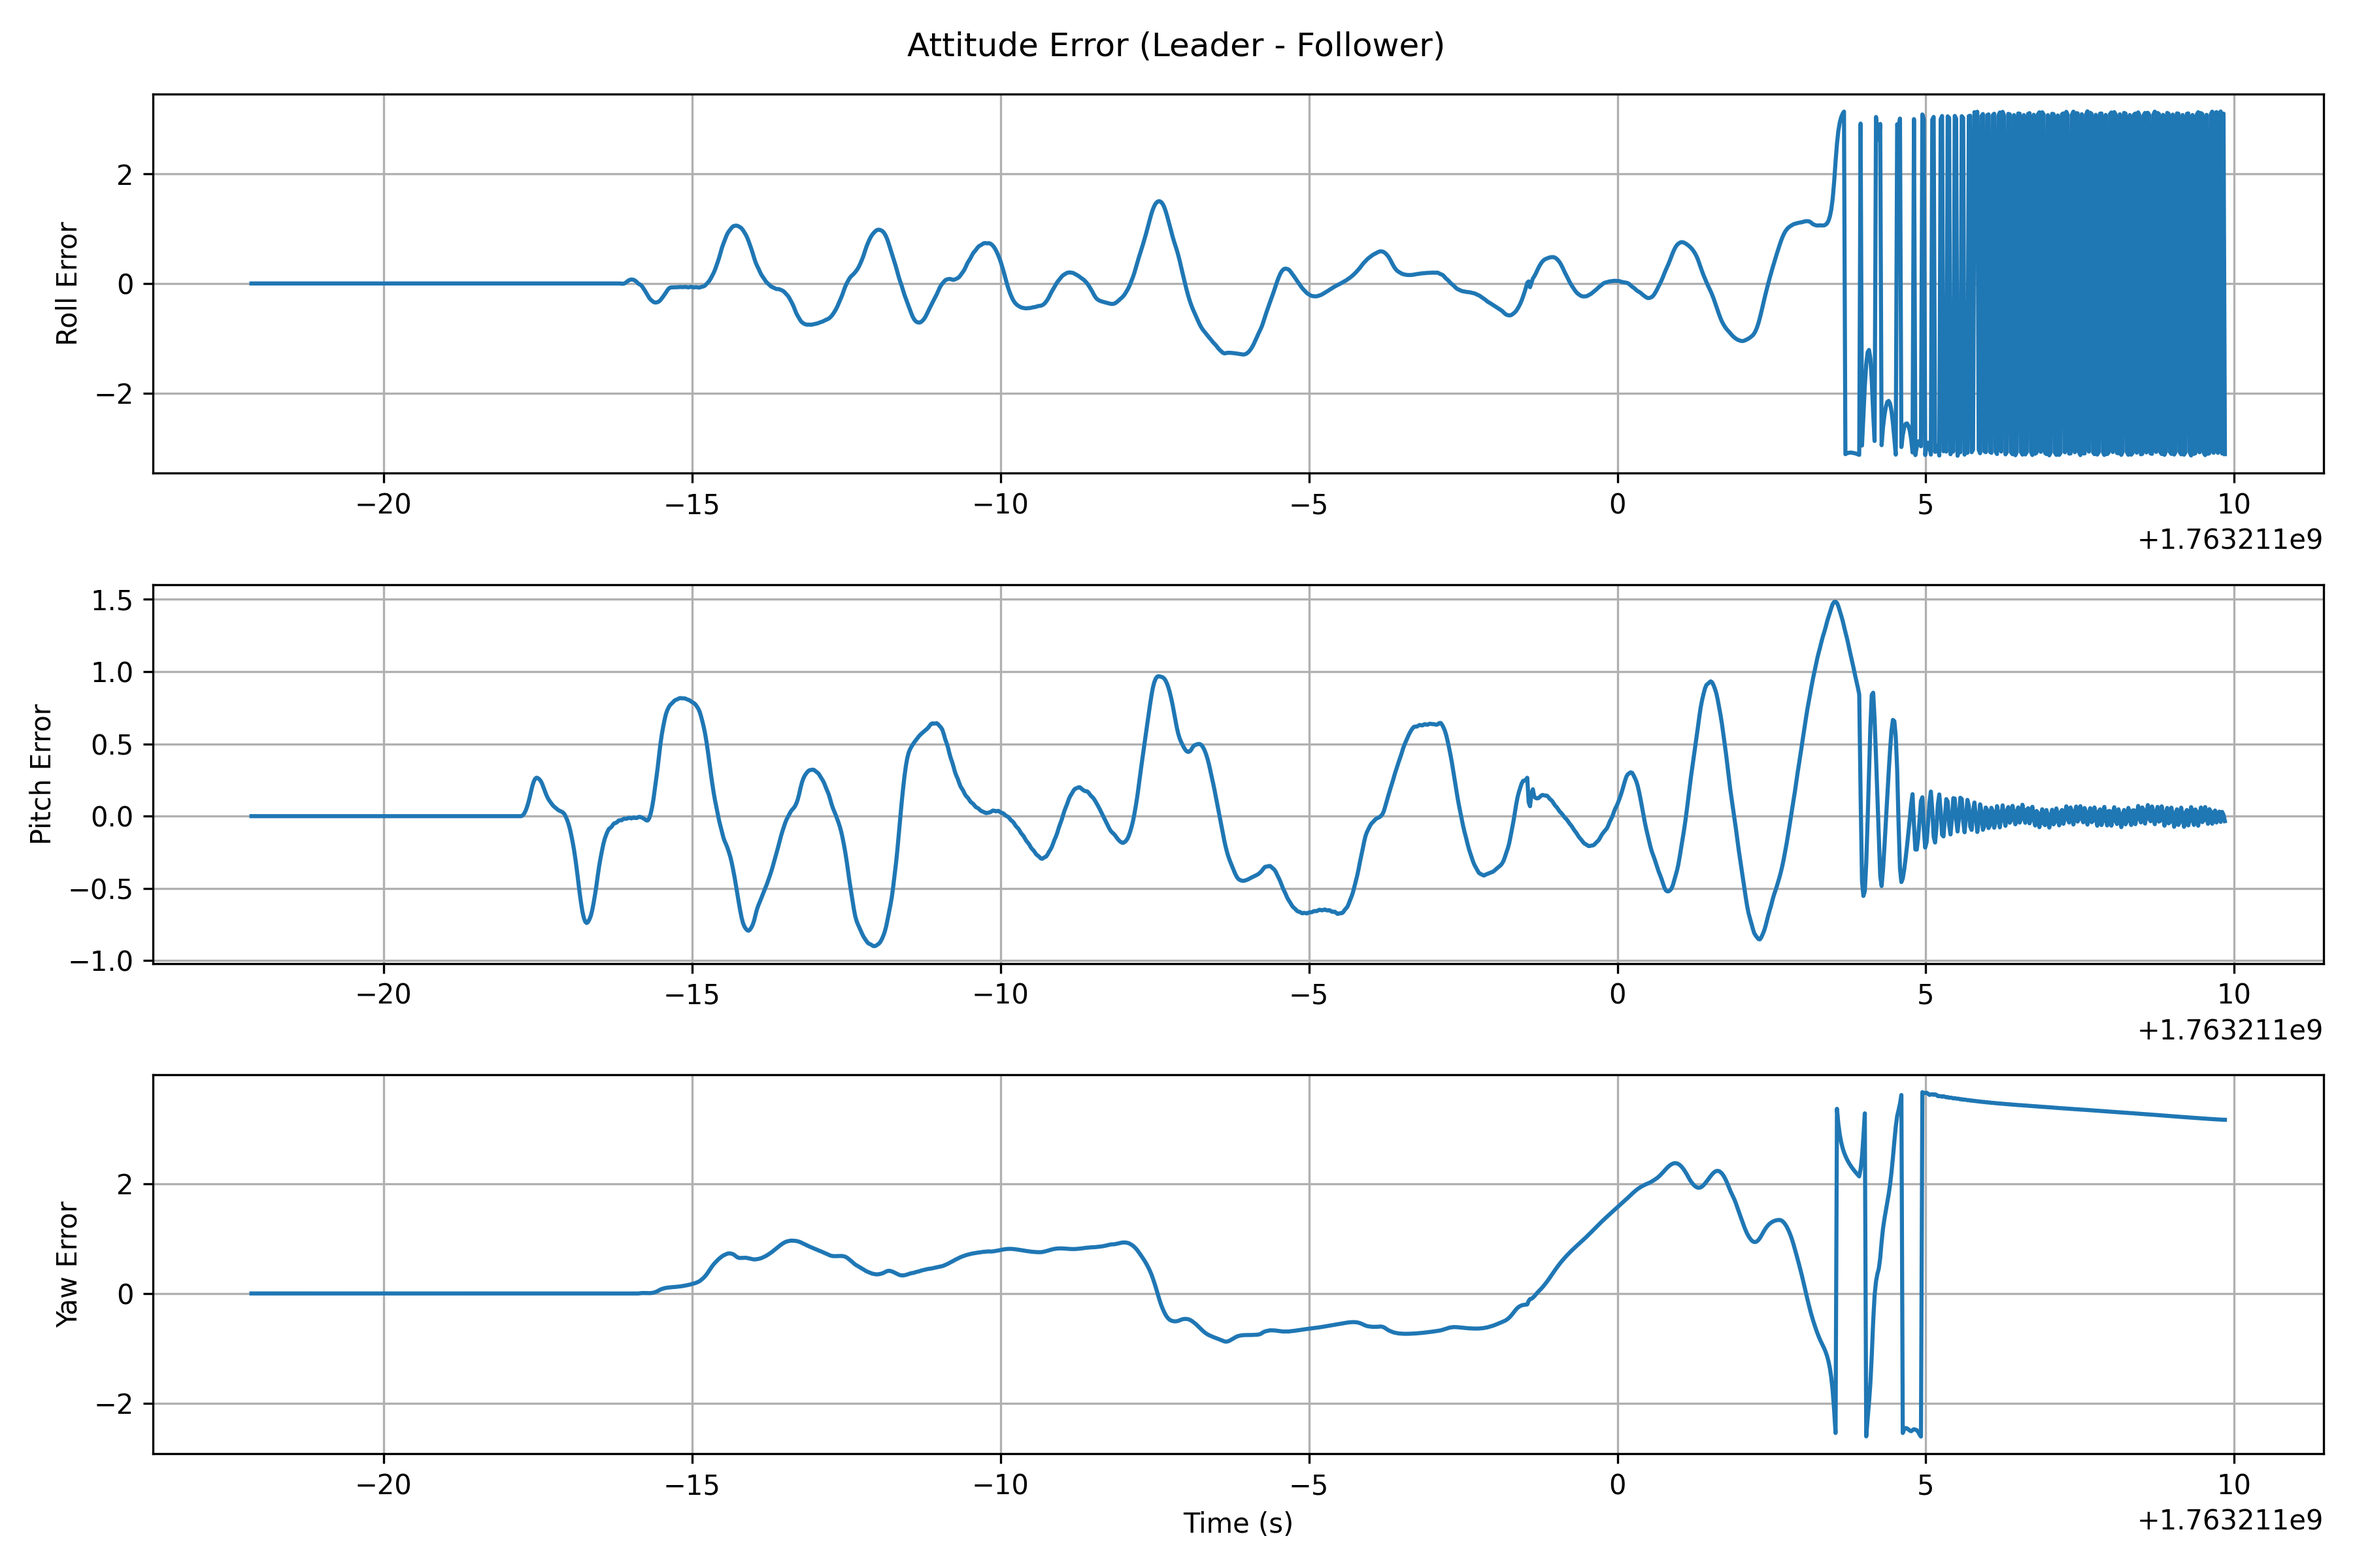
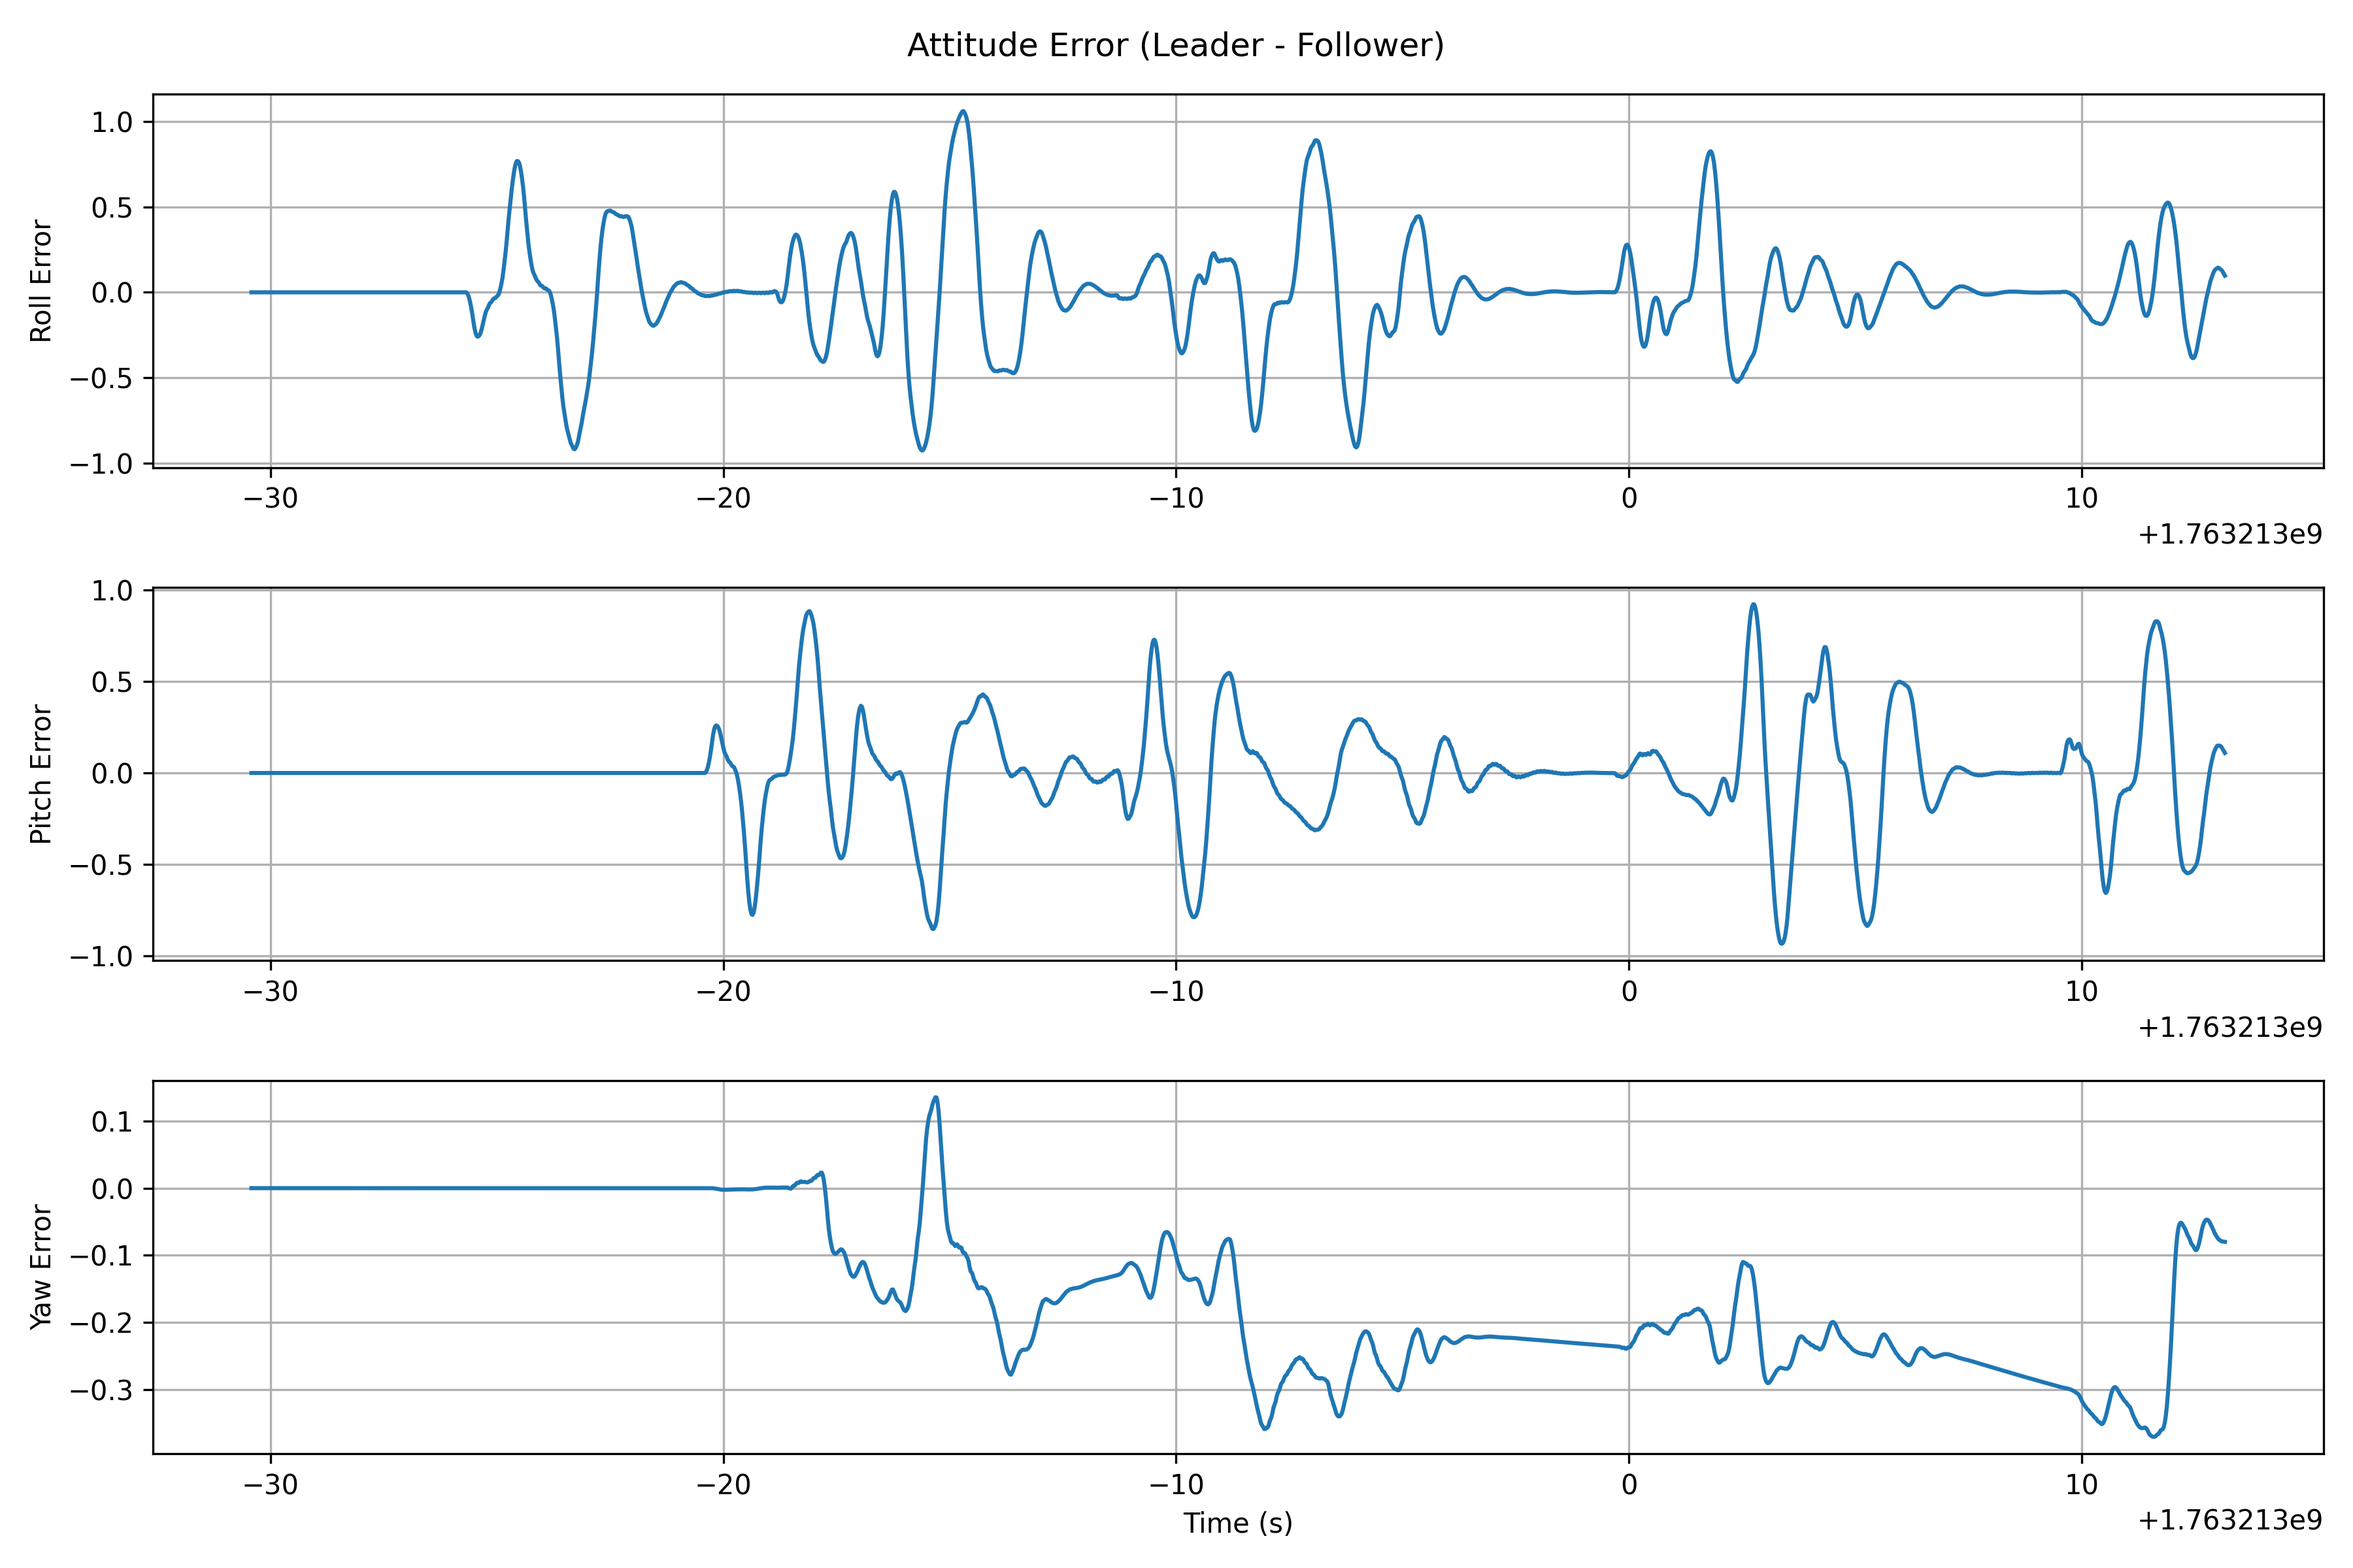
comparison graphs added

diff --git a/project control sys/drone_follower.py b/project control sys/drone_follower.py
@@ -297,6 +297,118 @@ def run_manual_control(drone1, drone2):
         print("\nAll graphs saved successfully inside the 'graphs' folder!")
         p.disconnect()
 
+        # -------------------------------------------------------
+        # 6. COMBINED 2×2 RESEARCH-STYLE FIGURE
+        # -------------------------------------------------------
+
+        fig, axs = plt.subplots(2, 2, figsize=(15, 10))
+
+        # ---------- Subplot 1: Yaw-only or RPY ----------
+        axs[0, 0].plot(time_arr, leader_rpy[:, 2], label="Leader Yaw")
+        axs[0, 0].plot(time_arr, follower_rpy[:, 2], label="Follower Yaw")
+        axs[0, 0].set_title("Yaw Tracking")
+        axs[0, 0].set_xlabel("Time (s)")
+        axs[0, 0].set_ylabel("Yaw (rad)")
+        axs[0, 0].grid()
+        axs[0, 0].legend()
+
+        # ---------- Subplot 2: XYZ Position ----------
+        axs[0, 1].plot(time_arr, leader_pos[:, 0], label="Leader X")
+        axs[0, 1].plot(time_arr, leader_pos[:, 1], label="Leader Y")
+        axs[0, 1].plot(time_arr, leader_pos[:, 2], label="Leader Z")
+        axs[0, 1].plot(time_arr, follower_pos[:, 0], '--', label="Follower X")
+        axs[0, 1].plot(time_arr, follower_pos[:, 1], '--', label="Follower Y")
+        axs[0, 1].plot(time_arr, follower_pos[:, 2], '--', label="Follower Z")
+        axs[0, 1].set_title("Position Tracking (XYZ)")
+        axs[0, 1].set_xlabel("Time (s)")
+        axs[0, 1].set_ylabel("Position (m)")
+        axs[0, 1].grid()
+        axs[0, 1].legend()
+
+        # ---------- Subplot 3: Velocity ----------
+        axs[1, 0].plot(time_arr, leader_vel[:, 0], label="Leader Vx")
+        axs[1, 0].plot(time_arr, leader_vel[:, 1], label="Leader Vy")
+        axs[1, 0].plot(time_arr, leader_vel[:, 2], label="Leader Vz")
+        axs[1, 0].plot(time_arr, follower_vel[:, 0], '--', label="Follower Vx")
+        axs[1, 0].plot(time_arr, follower_vel[:, 1], '--', label="Follower Vy")
+        axs[1, 0].plot(time_arr, follower_vel[:, 2], '--', label="Follower Vz")
+        axs[1, 0].set_title("Velocity Tracking (Vx, Vy, Vz)")
+        axs[1, 0].set_xlabel("Time (s)")
+        axs[1, 0].set_ylabel("Velocity (m/s)")
+        axs[1, 0].grid()
+        axs[1, 0].legend()
+
+        # ---------- Subplot 4: Attitude Error ----------
+        axs[1, 1].plot(time_arr, rpy_err[:, 0], label="Roll Error")
+        axs[1, 1].plot(time_arr, rpy_err[:, 1], label="Pitch Error")
+        axs[1, 1].plot(time_arr, rpy_err[:, 2], label="Yaw Error")
+        axs[1, 1].set_title("Attitude Error (Leader - Follower)")
+        axs[1, 1].set_xlabel("Time (s)")
+        axs[1, 1].set_ylabel("Error (rad)")
+        axs[1, 1].grid()
+        axs[1, 1].legend()
+
+        plt.tight_layout()
+        plt.savefig(f"{save_dir}/combined_2x2_results.png", dpi=300)
+        plt.close()
+
+        print(" - combined_2x2_results.png")
+
+        # -------------------------------------------------------
+        # 7. COMBINED GROUP OF 3 (RPY, XYZ, VELOCITY)
+        # -------------------------------------------------------
+        fig, axs = plt.subplots(3, 1, figsize=(14, 12))
+
+        # ---------- Group 1: RPY Tracking ----------
+        axs[0].plot(time_arr, leader_rpy[:, 0], label="Leader Roll")
+        axs[0].plot(time_arr, leader_rpy[:, 1], label="Leader Pitch")
+        axs[0].plot(time_arr, leader_rpy[:, 2], label="Leader Yaw")
+
+        axs[0].plot(time_arr, follower_rpy[:, 0], '--', label="Follower Roll")
+        axs[0].plot(time_arr, follower_rpy[:, 1], '--', label="Follower Pitch")
+        axs[0].plot(time_arr, follower_rpy[:, 2], '--', label="Follower Yaw")
+
+        axs[0].set_title("RPY Tracking (Roll, Pitch, Yaw)")
+        axs[0].set_xlabel("Time (s)")
+        axs[0].set_ylabel("Angle (rad)")
+        axs[0].grid()
+        axs[0].legend()
+
+        # ---------- Group 2: XYZ Positions ----------
+        axs[1].plot(time_arr, leader_pos[:, 0], label="Leader X")
+        axs[1].plot(time_arr, leader_pos[:, 1], label="Leader Y")
+        axs[1].plot(time_arr, leader_pos[:, 2], label="Leader Z")
+
+        axs[1].plot(time_arr, follower_pos[:, 0], '--', label="Follower X")
+        axs[1].plot(time_arr, follower_pos[:, 1], '--', label="Follower Y")
+        axs[1].plot(time_arr, follower_pos[:, 2], '--', label="Follower Z")
+
+        axs[1].set_title("XYZ Position Tracking")
+        axs[1].set_xlabel("Time (s)")
+        axs[1].set_ylabel("Position (m)")
+        axs[1].grid()
+        axs[1].legend()
+
+        # ---------- Group 3: Velocities ----------
+        axs[2].plot(time_arr, leader_vel[:, 0], label="Leader Vx")
+        axs[2].plot(time_arr, leader_vel[:, 1], label="Leader Vy")
+        axs[2].plot(time_arr, leader_vel[:, 2], label="Leader Vz")
+
+        axs[2].plot(time_arr, follower_vel[:, 0], '--', label="Follower Vx")
+        axs[2].plot(time_arr, follower_vel[:, 1], '--', label="Follower Vy")
+        axs[2].plot(time_arr, follower_vel[:, 2], '--', label="Follower Vz")
+
+        axs[2].set_title("Velocity Tracking (Vx, Vy, Vz)")
+        axs[2].set_xlabel("Time (s)")
+        axs[2].set_ylabel("Velocity (m/s)")
+        axs[2].grid()
+        axs[2].legend()
+
+        plt.tight_layout()
+        plt.savefig(f"{save_dir}/combined_grouped_3.png", dpi=300)
+        plt.close()
+
+        print(" - combined_grouped_3.png")
 
 
 if __name__ == "__main__":
